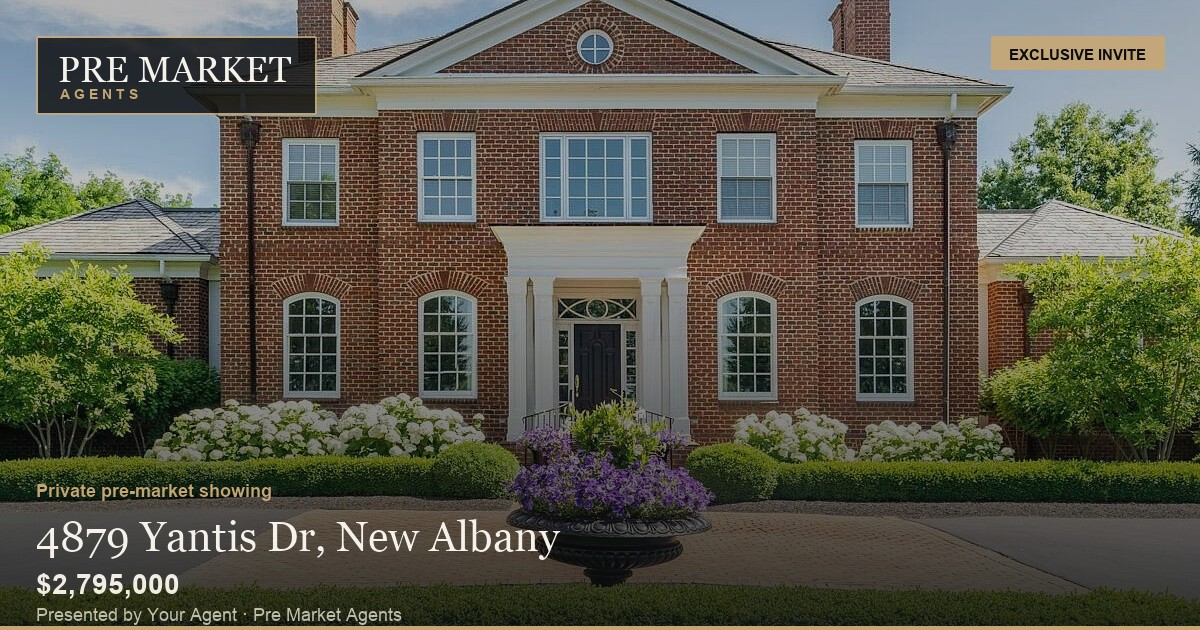
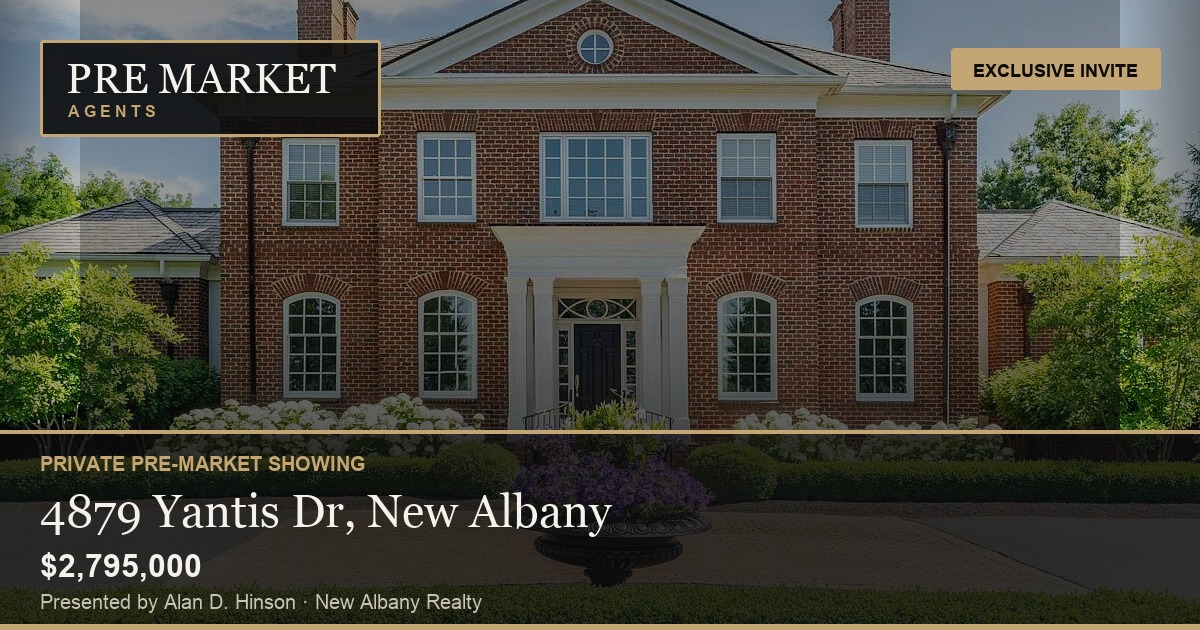
Actually ship exclusive-v4 OG JPEGs (meta already pointed at them)
Prior commit updated og:image URLs to *-exclusive-v4.jpg but the generator
bug never wrote the files, so live returned 404 and unfurls fell back to
cached old previews. Add the branded cards and sync make-og-image.py.

diff --git a/scripts/make-og-image.py b/scripts/make-og-image.py
@@ -1,12 +1,19 @@
 #!/usr/bin/env python3
-"""Brand a listing photo as a Pre Market Agents Open Graph share image (1200x630)."""
-import argparse, os
+"""Brand a listing photo as a Pre Market Agents Open Graph share image (1200x630).
+
+Use a NEW unique filename every visual redesign (e.g. *-exclusive-v4.jpg) so
+messaging apps cannot serve a cached older preview URL.
+"""
+import argparse
+import os
 from pathlib import Path
+
 from PIL import Image, ImageDraw, ImageFont, ImageEnhance
 
 FONT_SERIF = "/System/Library/Fonts/Supplemental/Georgia.ttf"
 FONT_SANS = "/System/Library/Fonts/Supplemental/Arial.ttf"
 FONT_SANS_BOLD = "/System/Library/Fonts/Supplemental/Arial Bold.ttf"
+
 
 def font(path, size):
     try:
@@ -14,7 +21,8 @@ def font(path, size):
     except Exception:
         return ImageFont.load_default()
 
-def make_og(src, out, address, price, agent, kicker="EXCLUSIVE INVITE"):
+
+def make_og(src, out_path, address, price, agent, kicker="EXCLUSIVE INVITE"):
     W, H = 1200, 630
     im = Image.open(src).convert("RGB")
     scale = max(W / im.width, H / im.height)
@@ -22,34 +30,66 @@ def make_og(src, out, address, price, agent, kicker="EXCLUSIVE INVITE"):
     im = im.resize((nw, nh), Image.Resampling.LANCZOS)
     left, top = (nw - W) // 2, (nh - H) // 2
     im = im.crop((left, top, left + W, top + H))
-    im = ImageEnhance.Brightness(im).enhance(0.82)
+    im = ImageEnhance.Brightness(im).enhance(0.72)
+    im = ImageEnhance.Contrast(im).enhance(1.05)
+
     overlay = Image.new("RGBA", (W, H), (0, 0, 0, 0))
     d = ImageDraw.Draw(overlay)
+
     for y in range(H):
         t = y / (H - 1)
-        a = min(230, int(40 * (1 - min(t * 1.4, 1))) + int(210 * max(0, (t - 0.35) / 0.65) ** 1.1))
+        a = min(
+            235,
+            int(70 * (1 - min(t * 1.2, 1)))
+            + int(230 * max(0, (t - 0.28) / 0.72) ** 1.05),
+        )
         d.line([(0, y), (W, y)], fill=(12, 12, 13, a))
-    pad = 36
-    d.rounded_rectangle([pad, pad, pad + 280, pad + 78], radius=2, fill=(12, 12, 13, 210), outline=(196, 165, 116, 200), width=2)
-    d.text((pad + 22, pad + 12), "PRE MARKET", font=font(FONT_SERIF, 36), fill=(245, 242, 235, 255))
-    d.text((pad + 24, pad + 50), "A G E N T S", font=font(FONT_SANS_BOLD, 14), fill=(196, 165, 116, 255))
-    fb = font(FONT_SANS_BOLD, 15)
+    for x in range(80):
+        a = int(90 * (1 - x / 80))
+        d.line([(x, 0), (x, H)], fill=(12, 12, 13, a))
+        d.line([(W - 1 - x, 0), (W - 1 - x, H)], fill=(12, 12, 13, a))
+
+    pad = 40
+    d.rounded_rectangle(
+        [pad, pad, pad + 340, pad + 96],
+        radius=3,
+        fill=(12, 12, 13, 230),
+        outline=(196, 165, 116, 255),
+        width=3,
+    )
+    d.text((pad + 26, pad + 14), "PRE MARKET", font=font(FONT_SERIF, 42), fill=(245, 242, 235, 255))
+    d.text((pad + 28, pad + 62), "A G E N T S", font=font(FONT_SANS_BOLD, 16), fill=(196, 165, 116, 255))
+
+    fb = font(FONT_SANS_BOLD, 18)
     bb = d.textbbox((0, 0), kicker, font=fb)
-    bw, bh = bb[2] - bb[0] + 36, bb[3] - bb[1] + 22
-    bx, by = W - pad - bw, pad
-    d.rounded_rectangle([bx, by, bx + bw, by + bh], radius=2, fill=(196, 165, 116, 235))
-    d.text((bx + 18, by + 10), kicker, font=fb, fill=(12, 12, 13, 255))
-    bottom_y = H - 150
-    d.text((pad, bottom_y), "Private pre-market showing", font=font(FONT_SANS_BOLD, 18), fill=(196, 165, 116, 255))
-    d.text((pad, bottom_y + 32), address, font=font(FONT_SERIF, 42), fill=(245, 242, 235, 255))
-    d.text((pad, bottom_y + 88), price, font=font(FONT_SANS_BOLD, 28), fill=(245, 242, 235, 240))
+    bw, bh = bb[2] - bb[0] + 44, bb[3] - bb[1] + 28
+    bx, by = W - pad - bw, pad + 8
+    d.rounded_rectangle([bx, by, bx + bw, by + bh], radius=3, fill=(196, 165, 116, 255))
+    d.text((bx + 22, by + 12), kicker, font=fb, fill=(12, 12, 13, 255))
+
+    plate_top = H - 200
+    d.rectangle([0, plate_top, W, H], fill=(12, 12, 13, 200))
+    d.rectangle([0, plate_top, W, plate_top + 3], fill=(196, 165, 116, 255))
+
+    d.text(
+        (pad, plate_top + 22),
+        "PRIVATE PRE-MARKET SHOWING",
+        font=font(FONT_SANS_BOLD, 20),
+        fill=(196, 165, 116, 255),
+    )
+    d.text((pad, plate_top + 54), address, font=font(FONT_SERIF, 46), fill=(245, 242, 235, 255))
+    d.text((pad, plate_top + 118), price, font=font(FONT_SANS_BOLD, 32), fill=(245, 242, 235, 255))
     if agent:
-        d.text((pad, bottom_y + 124), agent, font=font(FONT_SANS, 18), fill=(200, 195, 185, 230))
-    d.rectangle([0, H - 4, W, H], fill=(196, 165, 116, 255))
-    out_im = Image.alpha_composite(im.convert("RGBA"), overlay).convert("RGB")
-    Path(out).parent.mkdir(parents=True, exist_ok=True)
-    out_im.save(out, "JPEG", quality=90, optimize=True)
-    print(out, os.path.getsize(out))
+        d.text((pad, plate_top + 160), agent, font=font(FONT_SANS, 20), fill=(200, 195, 185, 255))
+
+    d.rectangle([0, H - 6, W, H], fill=(196, 165, 116, 255))
+
+    result = Image.alpha_composite(im.convert("RGBA"), overlay).convert("RGB")
+    out_path = Path(out_path)
+    out_path.parent.mkdir(parents=True, exist_ok=True)
+    result.save(out_path, "JPEG", quality=92, optimize=True)
+    print(out_path, result.size, os.path.getsize(out_path))
+
 
 if __name__ == "__main__":
     ap = argparse.ArgumentParser()
